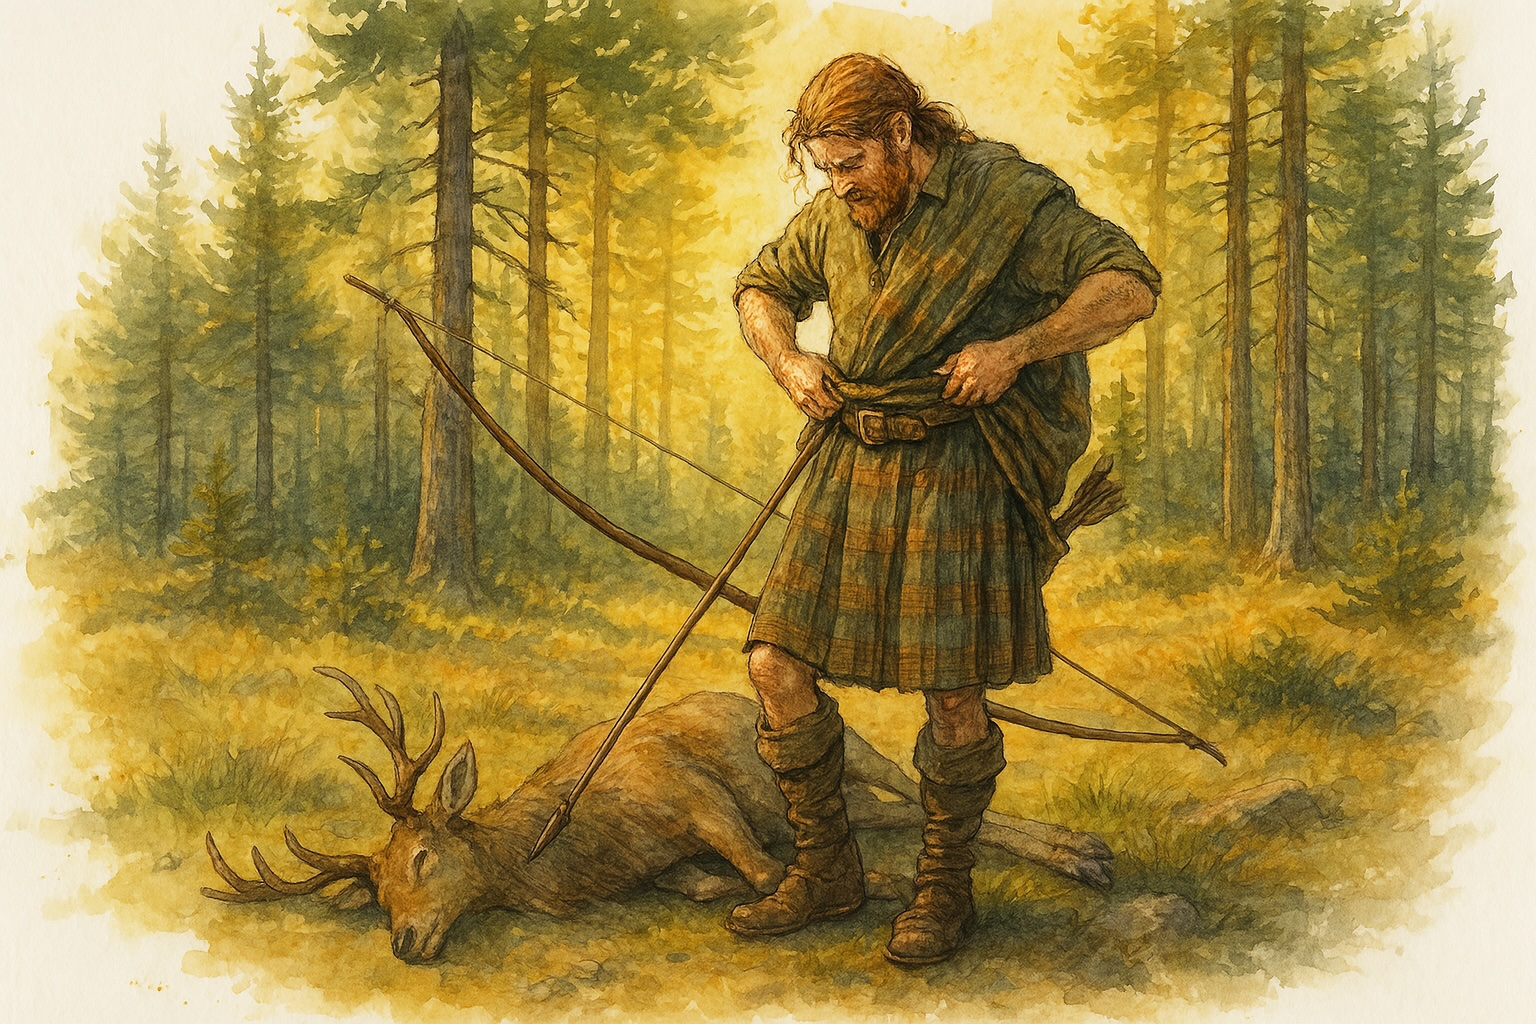
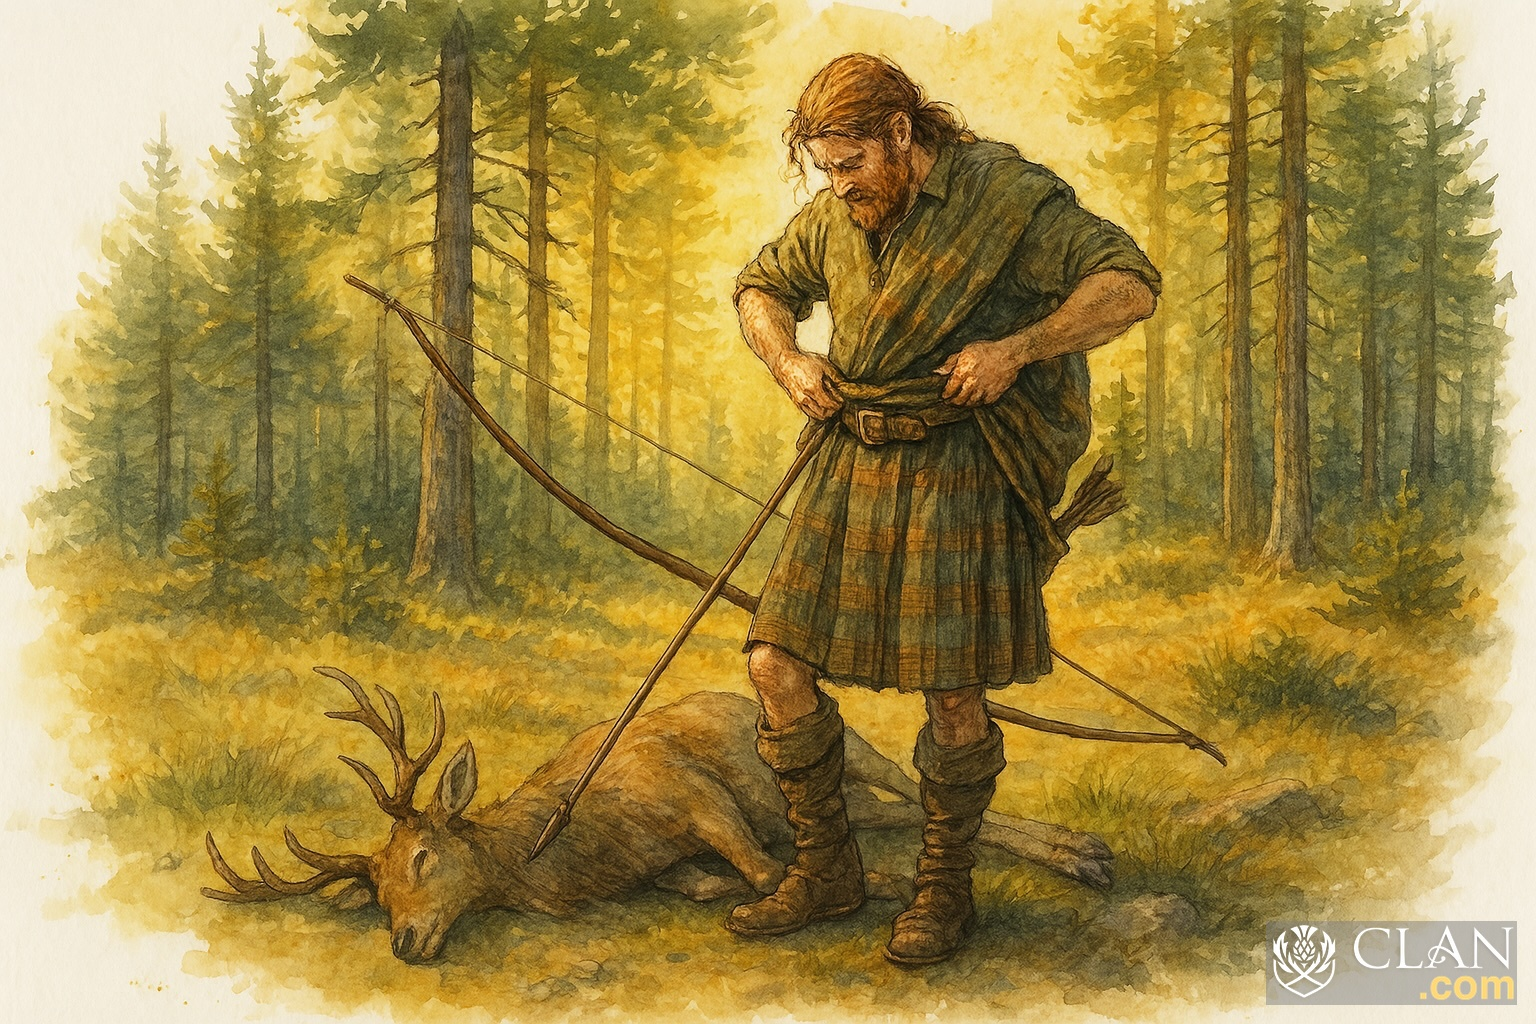
watermarking done

Changed region(s): [[0.8125, 0.875, 1.0, 1.0]]

diff --git a/watermark_images.py b/watermark_images.py
@@ -1,0 +1,169 @@
+import os
+import sys
+from PIL import Image, ImageDraw, UnidentifiedImageError
+import argparse # Keep argparse just for the input directory
+
+# --- Configuration ---
+# <<< --- EDIT THIS VARIABLE FOR THE TARGET DIRECTORY --- >>>
+DEFAULT_INPUT_DIRECTORY = "images/kilt-evolution" # Default if no argument provided
+# <<< --- OTHER FIXED SETTINGS --- >>>
+WATERMARK_PATH = "images/site/clan-watermark.png"
+TARGET_WATERMARK_WIDTH = 250  # Baked in: 250px
+OFFSET = 20                   # Baked in: 20px
+# Background settings
+ADD_BACKGROUND = True         # Set to False to disable background
+BACKGROUND_COLOR = (128, 128, 128) # RGB for grey
+BACKGROUND_OPACITY = 0.5      # 0.0 (transparent) to 1.0 (opaque) -> 50%
+
+# --- Internal Constants ---
+SUPPORTED_EXTENSIONS = ('.jpg', '.jpeg', '.png')
+
+def add_watermark(image_path, watermark_path, output_path):
+    """
+    Adds a watermark (with optional background) to an image and saves it.
+
+    Uses baked-in global constants for width, offset, background settings.
+
+    Args:
+        image_path (str): Path to the main image.
+        watermark_path (str): Path to the watermark image.
+        output_path (str): Path to save the watermarked image.
+
+    Returns:
+        bool: True if successful, False otherwise.
+    """
+    try:
+        # Use 'with' statement for automatic closing of files
+        with Image.open(image_path).convert("RGBA") as base_image, \
+             Image.open(watermark_path).convert("RGBA") as watermark_image:
+
+            # --- Resize Watermark ---
+            wm_width, wm_height = watermark_image.size
+            if wm_width == 0 or wm_height == 0:
+                print(f"    Error: Watermark dimensions invalid for {watermark_path}")
+                return False
+
+            aspect_ratio = wm_height / wm_width
+            new_wm_height = int(TARGET_WATERMARK_WIDTH * aspect_ratio)
+            if new_wm_height == 0: new_wm_height = 1 # Ensure minimum height
+
+            try:
+                # Use Resampling.LANCZOS for high-quality resizing
+                watermark_resized = watermark_image.resize((TARGET_WATERMARK_WIDTH, new_wm_height), Image.Resampling.LANCZOS)
+            except AttributeError: # Fallback for older Pillow versions
+                 watermark_resized = watermark_image.resize((TARGET_WATERMARK_WIDTH, new_wm_height), Image.LANCZOS)
+
+            wm_resized_width, wm_resized_height = watermark_resized.size
+
+            # --- Calculate Position ---
+            base_width, base_height = base_image.size
+            # Ensure watermark + offset doesn't exceed image dimensions
+            pos_x = max(0, base_width - wm_resized_width - OFFSET)
+            pos_y = max(0, base_height - wm_resized_height - OFFSET)
+            position = (pos_x, pos_y)
+
+            # --- Create Composite Layer ---
+            # Start with a transparent layer the size of the base image
+            composite_layer = Image.new('RGBA', base_image.size, (0, 0, 0, 0))
+
+            # --- Draw Background (Optional) ---
+            if ADD_BACKGROUND:
+                draw = ImageDraw.Draw(composite_layer)
+                # Define the rectangle for the background
+                bg_rect_coords = [
+                    position[0], position[1], # Top-left corner
+                    position[0] + wm_resized_width, position[1] + wm_resized_height # Bottom-right corner
+                ]
+                # Calculate RGBA color for background
+                bg_fill_color = BACKGROUND_COLOR + (int(255 * BACKGROUND_OPACITY),)
+                # Draw the rectangle onto the composite layer
+                draw.rectangle(bg_rect_coords, fill=bg_fill_color)
+                # Delete draw object (good practice, though maybe not strictly needed here)
+                del draw
+
+            # --- Paste Watermark onto Composite Layer ---
+            # Paste the resized watermark over the background (if any) on the composite layer
+            composite_layer.paste(watermark_resized, position, watermark_resized) # Use mask for transparency
+
+            # --- Composite onto Base Image ---
+            watermarked_image = Image.alpha_composite(base_image, composite_layer)
+
+            # --- Save ---
+            # Handle different save formats
+            file_ext = os.path.splitext(output_path)[1].lower()
+            if file_ext in ['.jpg', '.jpeg']:
+                watermarked_image.convert('RGB').save(output_path, "JPEG", quality=95)
+            else:
+                watermarked_image.save(output_path)
+
+            return True
+
+    except FileNotFoundError:
+        print(f"    Error: File not found ({image_path} or {watermark_path})")
+        return False
+    except UnidentifiedImageError:
+        print(f"    Error: Cannot identify image file ({image_path})")
+        return False
+    except Exception as e:
+        print(f"    Error processing {image_path}: {e}")
+        return False
+
+def main():
+    parser = argparse.ArgumentParser(description="Add a watermark to images in a directory.")
+    # Only argument is the input directory, with a default
+    parser.add_argument("directory", nargs='?', default=DEFAULT_INPUT_DIRECTORY,
+                        help=f"Directory containing images to watermark (default: {DEFAULT_INPUT_DIRECTORY}).")
+
+    args = parser.parse_args()
+    input_directory = args.directory
+
+    # --- Validate Inputs ---
+    if not os.path.isdir(input_directory):
+        print(f"Error: Input directory not found: {input_directory}")
+        sys.exit(1)
+    if not os.path.isfile(WATERMARK_PATH):
+        print(f"Error: Watermark file not found: {WATERMARK_PATH}")
+        sys.exit(1)
+
+    # --- Calculate and Create Output Directory ---
+    output_directory = f"{input_directory}-watermarked"
+    if not os.path.exists(output_directory):
+         print(f"Output directory {output_directory} not found, creating it.")
+         os.makedirs(output_directory) # exist_ok=True is default in Python 3.2+
+    else:
+         print(f"Output directory {output_directory} already exists.")
+
+
+    # --- Process Images ---
+    print(f"\nProcessing images in: {input_directory}")
+    print(f"Using watermark: {WATERMARK_PATH}")
+    print(f"Watermark target width: {TARGET_WATERMARK_WIDTH}px, Offset: {OFFSET}px")
+    if ADD_BACKGROUND:
+        print(f"Adding background: Color {BACKGROUND_COLOR}, Opacity {BACKGROUND_OPACITY*100:.0f}%")
+    print(f"Saving watermarked images to: {output_directory}")
+    print("-" * 30)
+
+    processed_count = 0
+    skipped_count = 0
+
+    for filename in os.listdir(input_directory):
+        # Check if it's a file and has a supported extension
+        file_path = os.path.join(input_directory, filename)
+        if os.path.isfile(file_path) and filename.lower().endswith(SUPPORTED_EXTENSIONS):
+            print(f"Processing {filename}...")
+            output_filename = os.path.join(output_directory, filename)
+
+            if add_watermark(file_path, WATERMARK_PATH, output_filename):
+                processed_count += 1
+            else:
+                skipped_count += 1
+        elif os.path.isfile(file_path):
+             print(f"Skipping unsupported file: {filename}")
+        # else: it's a directory, skip silently
+
+
+    print("-" * 30)
+    print(f"Finished. Processed: {processed_count}, Skipped/Errors: {skipped_count}")
+
+if __name__ == "__main__":
+    main()
